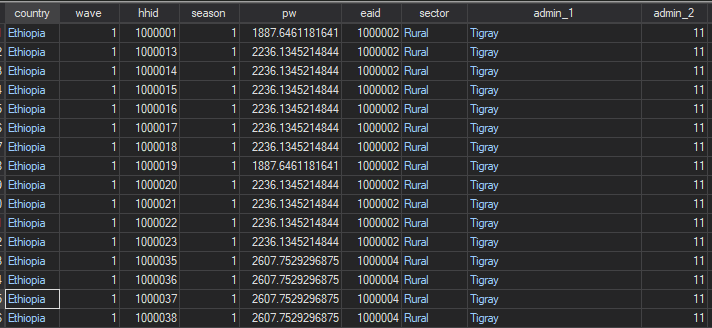
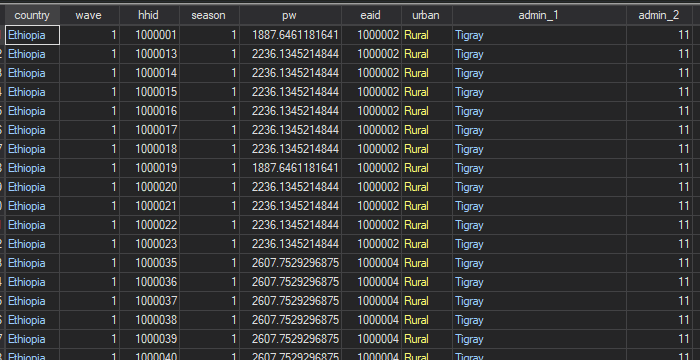
fix solution for 3.4 and 3.5

diff --git a/exercises/03-chg-var.md b/exercises/03-chg-var.md
@@ -7,7 +7,4 @@ language: Stata
 
 Using the World Bank's LSMS data, 
 
-1. Create a variable called `sector` that equals 0 if `urban = Rural` and equals 1 if `urban = Urban`
-2. Label that variable "EA is rural or urban"
-3. Define a value label set called `sec_lbl` where `0 = Rural` and `1 = Urban`
-4. Assign the value label set `sec_lbl` to the variable `sector`
+1. Change...
